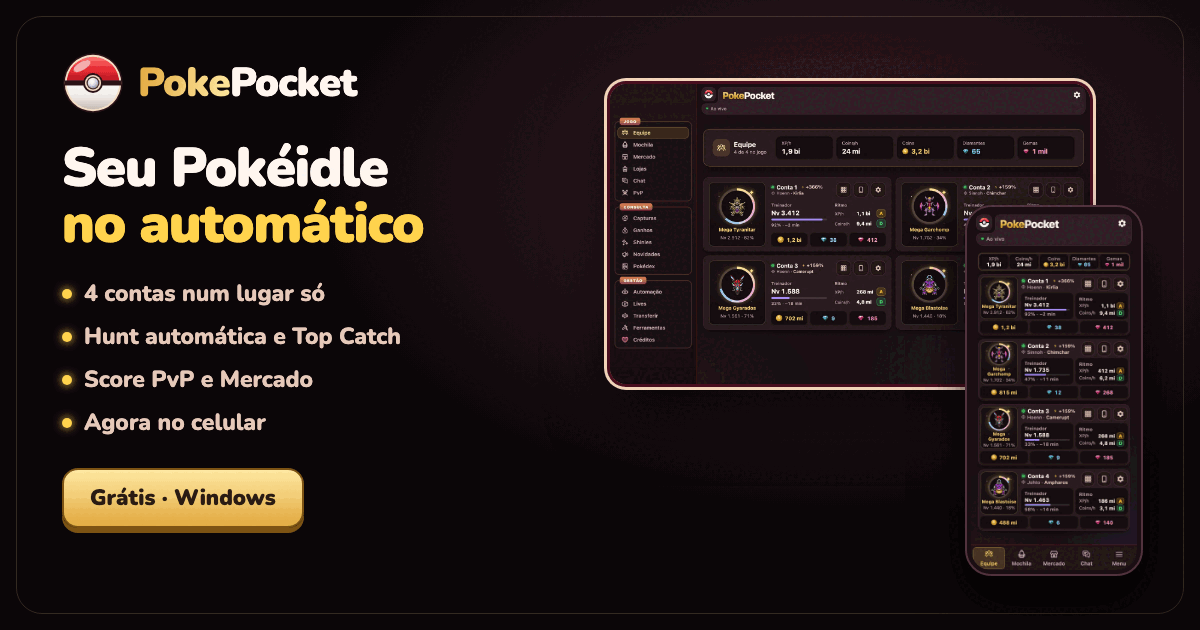
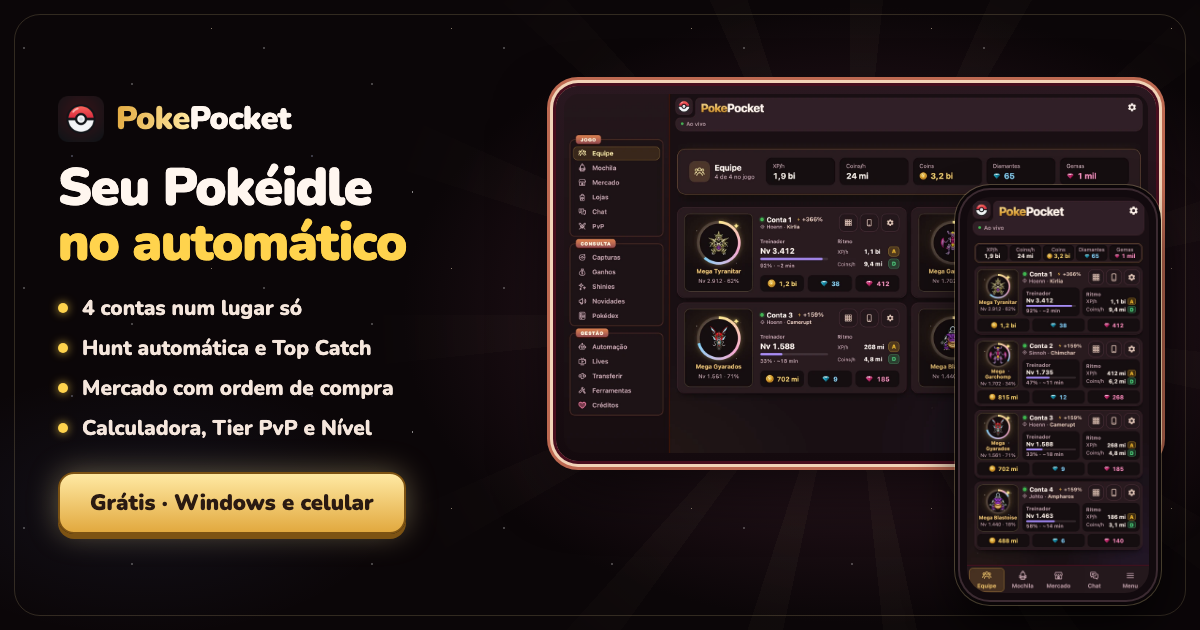
feat(site): prévias geradas por HTML para a inicial e o Nível
- previa-site.png refeita sem promessa de compra automática (ordem de compra) e com as ferramentas
- nova previa-nivel.png para a página Nível
- gerador ferramentas/previa-paginas.mjs com versão ?v= no og:image para renovar o cache das redes

diff --git a/ferramentas/previas/base.css b/ferramentas/previas/base.css
@@ -1,0 +1,19 @@
+@font-face { font-family: "Lilita"; src: url("../../assets/fontes/lilita.woff2") format("woff2"); }
+@font-face { font-family: "Nunito"; src: url("../../assets/fontes/nunito.woff2") format("woff2"); font-weight: 200 1000; }
+* { box-sizing: border-box; margin: 0; padding: 0; }
+html, body { width: 1200px; height: 630px; overflow: hidden; }
+body { position: relative; background: #0b0608; color: #fff6ef; font-family: "Nunito", sans-serif; }
+.fundo { position: absolute; inset: 0; background: radial-gradient(55% 70% at 72% 50%, #3d1f2c 0%, transparent 70%), radial-gradient(30% 30% at 12% 80%, rgba(120, 160, 255, 0.07), transparent 70%), #0b0608; }
+.fundo::before { content: ""; position: absolute; inset: 0; background-image: radial-gradient(1.4px 1.4px at 10% 20%, #fff 50%, transparent 51%), radial-gradient(1.4px 1.4px at 30% 65%, #cfd8ff 50%, transparent 51%), radial-gradient(1.4px 1.4px at 55% 35%, #fff 50%, transparent 51%), radial-gradient(1.4px 1.4px at 72% 80%, #fff 50%, transparent 51%), radial-gradient(1.4px 1.4px at 88% 12%, #ffe9c4 50%, transparent 51%); background-size: 240px 240px; opacity: 0.5; }
+.raios { position: absolute; left: 850px; top: 315px; width: 1100px; height: 1100px; margin: -550px 0 0 -550px; border-radius: 50%; background: repeating-conic-gradient(rgba(255, 233, 163, 0.05) 0deg 6deg, transparent 6deg 24deg); -webkit-mask: radial-gradient(circle, #000 10%, transparent 62%); mask: radial-gradient(circle, #000 10%, transparent 62%); }
+.moldura { position: absolute; inset: 14px; border-radius: 26px; border: 1px solid rgba(255, 233, 163, 0.16); }
+.esq { position: absolute; left: 58px; top: 0; bottom: 0; width: 470px; display: flex; flex-direction: column; justify-content: center; }
+.marca { display: flex; align-items: center; gap: 12px; font-weight: 900; font-size: 32px; letter-spacing: -0.02em; }
+.marca img { width: 46px; height: 46px; }
+.marca .p { background: linear-gradient(100deg, #e2a93f, #ffe9a3); -webkit-background-clip: text; background-clip: text; color: transparent; }
+h1 { margin-top: 18px; font-weight: 900; font-size: 52px; line-height: 1.06; letter-spacing: -0.02em; }
+h1 em { display: block; font-style: normal; color: #ffd34d; }
+.lista { display: grid; gap: 12px; margin-top: 24px; list-style: none; }
+.lista li { display: flex; align-items: center; gap: 14px; font-size: 21px; font-weight: 800; color: #f5e6dc; }
+.lista i { flex: none; width: 10px; height: 10px; border-radius: 50%; background: #ffd34d; box-shadow: 0 0 10px rgba(255, 211, 77, 0.8); }
+.botao { align-self: flex-start; margin-top: 30px; padding: 14px 30px; border: 2px solid #7d5313; border-radius: 16px; background: linear-gradient(180deg, #ffe9a3, #e2a93f); color: #2a1a12; font-weight: 900; font-size: 22px; box-shadow: 0 5px 0 #7d5313, 0 0 30px rgba(255, 233, 163, 0.35); }

diff --git a/ferramentas/previas/nivel.html b/ferramentas/previas/nivel.html
@@ -1,0 +1,31 @@
+<!doctype html>
+<html lang="pt-BR">
+<head>
+<meta charset="utf-8" />
+<meta name="robots" content="noindex" />
+<meta name="viewport" content="width=1200" />
+<title>Prévia da Calculadora de Nível</title>
+<link rel="stylesheet" href="base.css" />
+<style>
+h1 { font-family: "Lilita"; font-weight: 400; font-size: 62px; line-height: 0.98; letter-spacing: 0.01em; text-transform: uppercase; background: linear-gradient(180deg, #fffbe0 0%, #ffe066 40%, #ffb020 65%, #e8650f 100%); -webkit-background-clip: text; background-clip: text; color: transparent; filter: drop-shadow(0 3px 0 #3b1208); }
+.sub { margin-top: 14px; font-size: 23px; font-weight: 800; color: #f5e6dc; }
+.painel { position: absolute; left: 584px; top: 50%; width: 566px; height: 500px; overflow: hidden; border-radius: 24px; transform: translateY(-50%); background: #2b1a22; box-shadow: 0 0 0 3px #480e1e, 0 0 0 6px #f1d3b7, 0 0 0 9px #bd6951, 0 24px 60px rgba(0, 0, 0, 0.6); }
+.painel iframe { position: absolute; left: -356px; top: -12px; width: 1040px; height: 640px; border: 0; background: transparent; transform: scale(0.9); transform-origin: 0 0; }
+</style>
+</head>
+<body>
+<div class="fundo"></div><div class="raios"></div><div class="moldura"></div>
+<div class="esq">
+  <div class="marca"><img src="../../assets/icone.png" alt="" /><span><span class="p">Poke</span>Pocket</span></div>
+  <h1 style="margin-top:20px">Calculadora<br />de Nível</h1>
+  <p class="sub">Quando você chega ao nível que quer.</p>
+  <ul class="lista">
+    <li><i></i>Tempo e data prevista</li>
+    <li><i></i>XP que falta e marcos do caminho</li>
+    <li><i></i>Bônus de XP na conta</li>
+  </ul>
+  <span class="botao">Grátis, no navegador</span>
+</div>
+<div class="painel"><iframe src="../../nivel/?embed" title="Calculadora de Nível" scrolling="no"></iframe></div>
+</body>
+</html>

diff --git a/ferramentas/previas/site.html b/ferramentas/previas/site.html
@@ -1,0 +1,32 @@
+<!doctype html>
+<html lang="pt-BR">
+<head>
+<meta charset="utf-8" />
+<meta name="robots" content="noindex" />
+<meta name="viewport" content="width=1200" />
+<title>Prévia do PokePocket</title>
+<link rel="stylesheet" href="base.css" />
+<style>
+.pc { position: absolute; left: 556px; top: 86px; width: 600px; height: 375px; padding: 8px; border-radius: 22px; background: linear-gradient(180deg, #2a1820, #140a0e); box-shadow: 0 0 0 3px #480e1e, 0 0 0 6px #f1d3b7, 0 0 0 9px #bd6951, 0 24px 60px rgba(0, 0, 0, 0.6); }
+.pc img { display: block; width: 100%; height: 100%; object-fit: cover; object-position: top left; border-radius: 15px; }
+.cel { position: absolute; left: 960px; top: 190px; width: 196px; height: 410px; padding: 7px; border-radius: 30px; background: #120a0e; box-shadow: 0 0 0 2px #3b2a31, 0 0 0 5px #0b0608, 0 0 0 6px rgba(255, 233, 163, 0.25), 0 26px 50px rgba(0, 0, 0, 0.7); }
+.cel img { display: block; width: 100%; height: 100%; object-fit: cover; object-position: top center; border-radius: 24px; }
+</style>
+</head>
+<body>
+<div class="fundo"></div><div class="raios"></div><div class="moldura"></div>
+<div class="esq">
+  <div class="marca"><img src="../../assets/icone.png" alt="" /><span><span class="p">Poke</span>Pocket</span></div>
+  <h1>Seu Pokéidle<em>no automático</em></h1>
+  <ul class="lista">
+    <li><i></i>4 contas num lugar só</li>
+    <li><i></i>Hunt automática e Top Catch</li>
+    <li><i></i>Mercado com ordem de compra</li>
+    <li><i></i>Calculadora, Tier PvP e Nível</li>
+  </ul>
+  <span class="botao">Grátis · Windows e celular</span>
+</div>
+<div class="pc"><img src="../../assets/prints/equipe.webp" alt="" /></div>
+<div class="cel"><img src="../../assets/prints/celular-equipe.webp" alt="" /></div>
+</body>
+</html>

diff --git a/nivel/index.html b/nivel/index.html
@@ -12,12 +12,12 @@
   <meta property="og:title" content="Calculadora de Nível · PokePocket" />
   <meta property="og:description" content="Quando você chega ao nível que quer no Pokéidle: tempo, data, XP que falta e marcos. Grátis, no navegador." />
   <meta property="og:url" content="https://iampiscis.github.io/pokepocket/nivel/" />
-  <meta property="og:image" content="https://iampiscis.github.io/pokepocket/assets/previa-nivel.png" />
+  <meta property="og:image" content="https://iampiscis.github.io/pokepocket/assets/previa-nivel.png?v=202611221558" />
   <meta property="og:image:width" content="1200" />
   <meta property="og:image:height" content="630" />
   <meta property="og:image:alt" content="Calculadora de Nível do PokePocket: montanha dourada com a trilha até o nível alvo" />
   <meta name="twitter:card" content="summary_large_image" />
-  <meta name="twitter:image" content="https://iampiscis.github.io/pokepocket/assets/previa-nivel.png" />
+  <meta name="twitter:image" content="https://iampiscis.github.io/pokepocket/assets/previa-nivel.png?v=202611221558" />
   <link rel="icon" href="../assets/icone.png" />
   <link rel="stylesheet" href="../assets/ferramentas.css" />
   <script src="../assets/ferramentas.js" defer></script>

diff --git a/index.html b/index.html
@@ -12,12 +12,12 @@
   <meta property="og:title" content="PokePocket · seu Pokéidle no automático" />
   <meta property="og:description" content="Hunt, Top Catch, Prey e lives nas 4 contas. Grátis, no seu PC e no celular." />
   <meta property="og:url" content="https://iampiscis.github.io/pokepocket/" />
-  <meta property="og:image" content="https://iampiscis.github.io/pokepocket/assets/previa-site.png" />
+  <meta property="og:image" content="https://iampiscis.github.io/pokepocket/assets/previa-site.png?v=202611221558" />
   <meta property="og:image:width" content="1200" />
   <meta property="og:image:height" content="630" />
   <meta property="og:image:alt" content="PokePocket: painel com 4 contas do Pokéidle no automático" />
   <meta name="twitter:card" content="summary_large_image" />
-  <meta name="twitter:image" content="https://iampiscis.github.io/pokepocket/assets/previa-site.png" />
+  <meta name="twitter:image" content="https://iampiscis.github.io/pokepocket/assets/previa-site.png?v=202611221558" />
   <link rel="icon" href="assets/icone.png" />
   <link rel="stylesheet" href="assets/ferramentas.css" />
   <script src="assets/ferramentas.js" defer></script>
